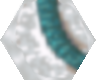
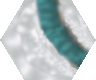
Winter stream work 2

diff --git a/hlrData.py b/hlrData.py
@@ -83,6 +83,7 @@ bgTilesModifiers =  {   'forest'        :   [3, 43, 8],           # movement cos
 						'stream25_w'    :   [None, None, 0],
 						'stream26_w'    :   [None, None, 0],
 						'stream35_w'    :   [None, None, 0],
+						'stream36_w'    :   [None, None, 0],
 						'stream46_w'    :   [None, None, 0],
 						'lakeside12'    :   [None, None, 0],
 						'lakeside16'    :   [None, None, 0],
@@ -161,6 +162,7 @@ bgTiles =   {   'forest'        :   pygame.image.load('gfx/hexTypes/hex_forest.p
 				'stream25_w'    :   pygame.image.load('gfx/hexTypes/hex_stream25_winter.png'),
 				'stream26_w'    :   pygame.image.load('gfx/hexTypes/hex_stream26_winter.png'),
 				'stream35_w'    :   pygame.image.load('gfx/hexTypes/hex_stream35_winter.png'),
+				'stream36_w'    :   pygame.image.load('gfx/hexTypes/hex_stream36_winter.png'),
 				'stream46_w'    :   pygame.image.load('gfx/hexTypes/hex_stream46_winter.png'),
 				'lakeside12'    :   pygame.image.load('gfx/hexTypes/hex_lakeside12.png'),
 				'lakeside16'    :   pygame.image.load('gfx/hexTypes/hex_lakeside16.png'),
